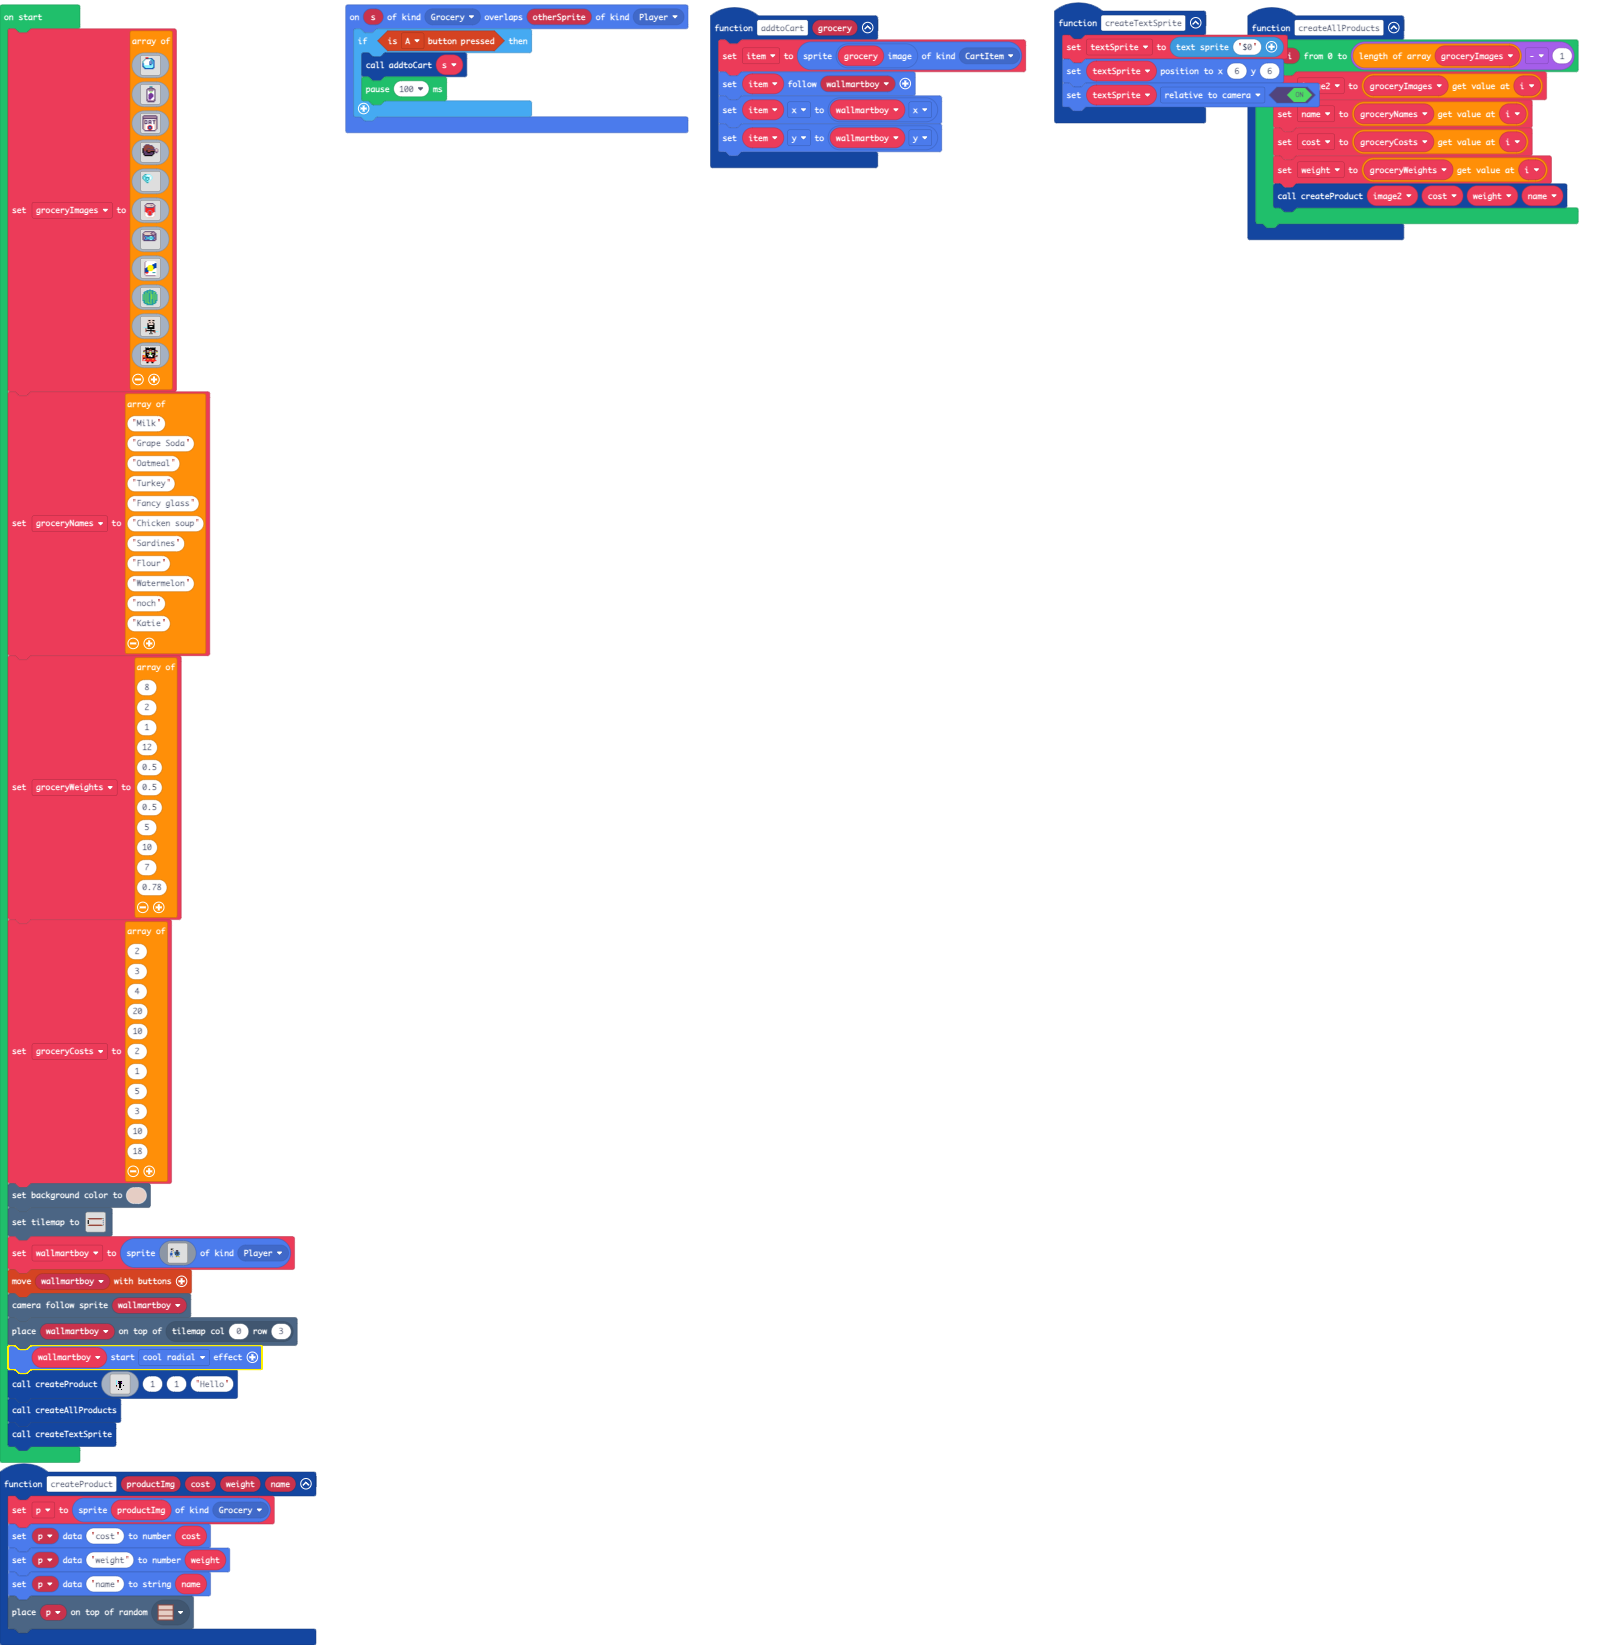
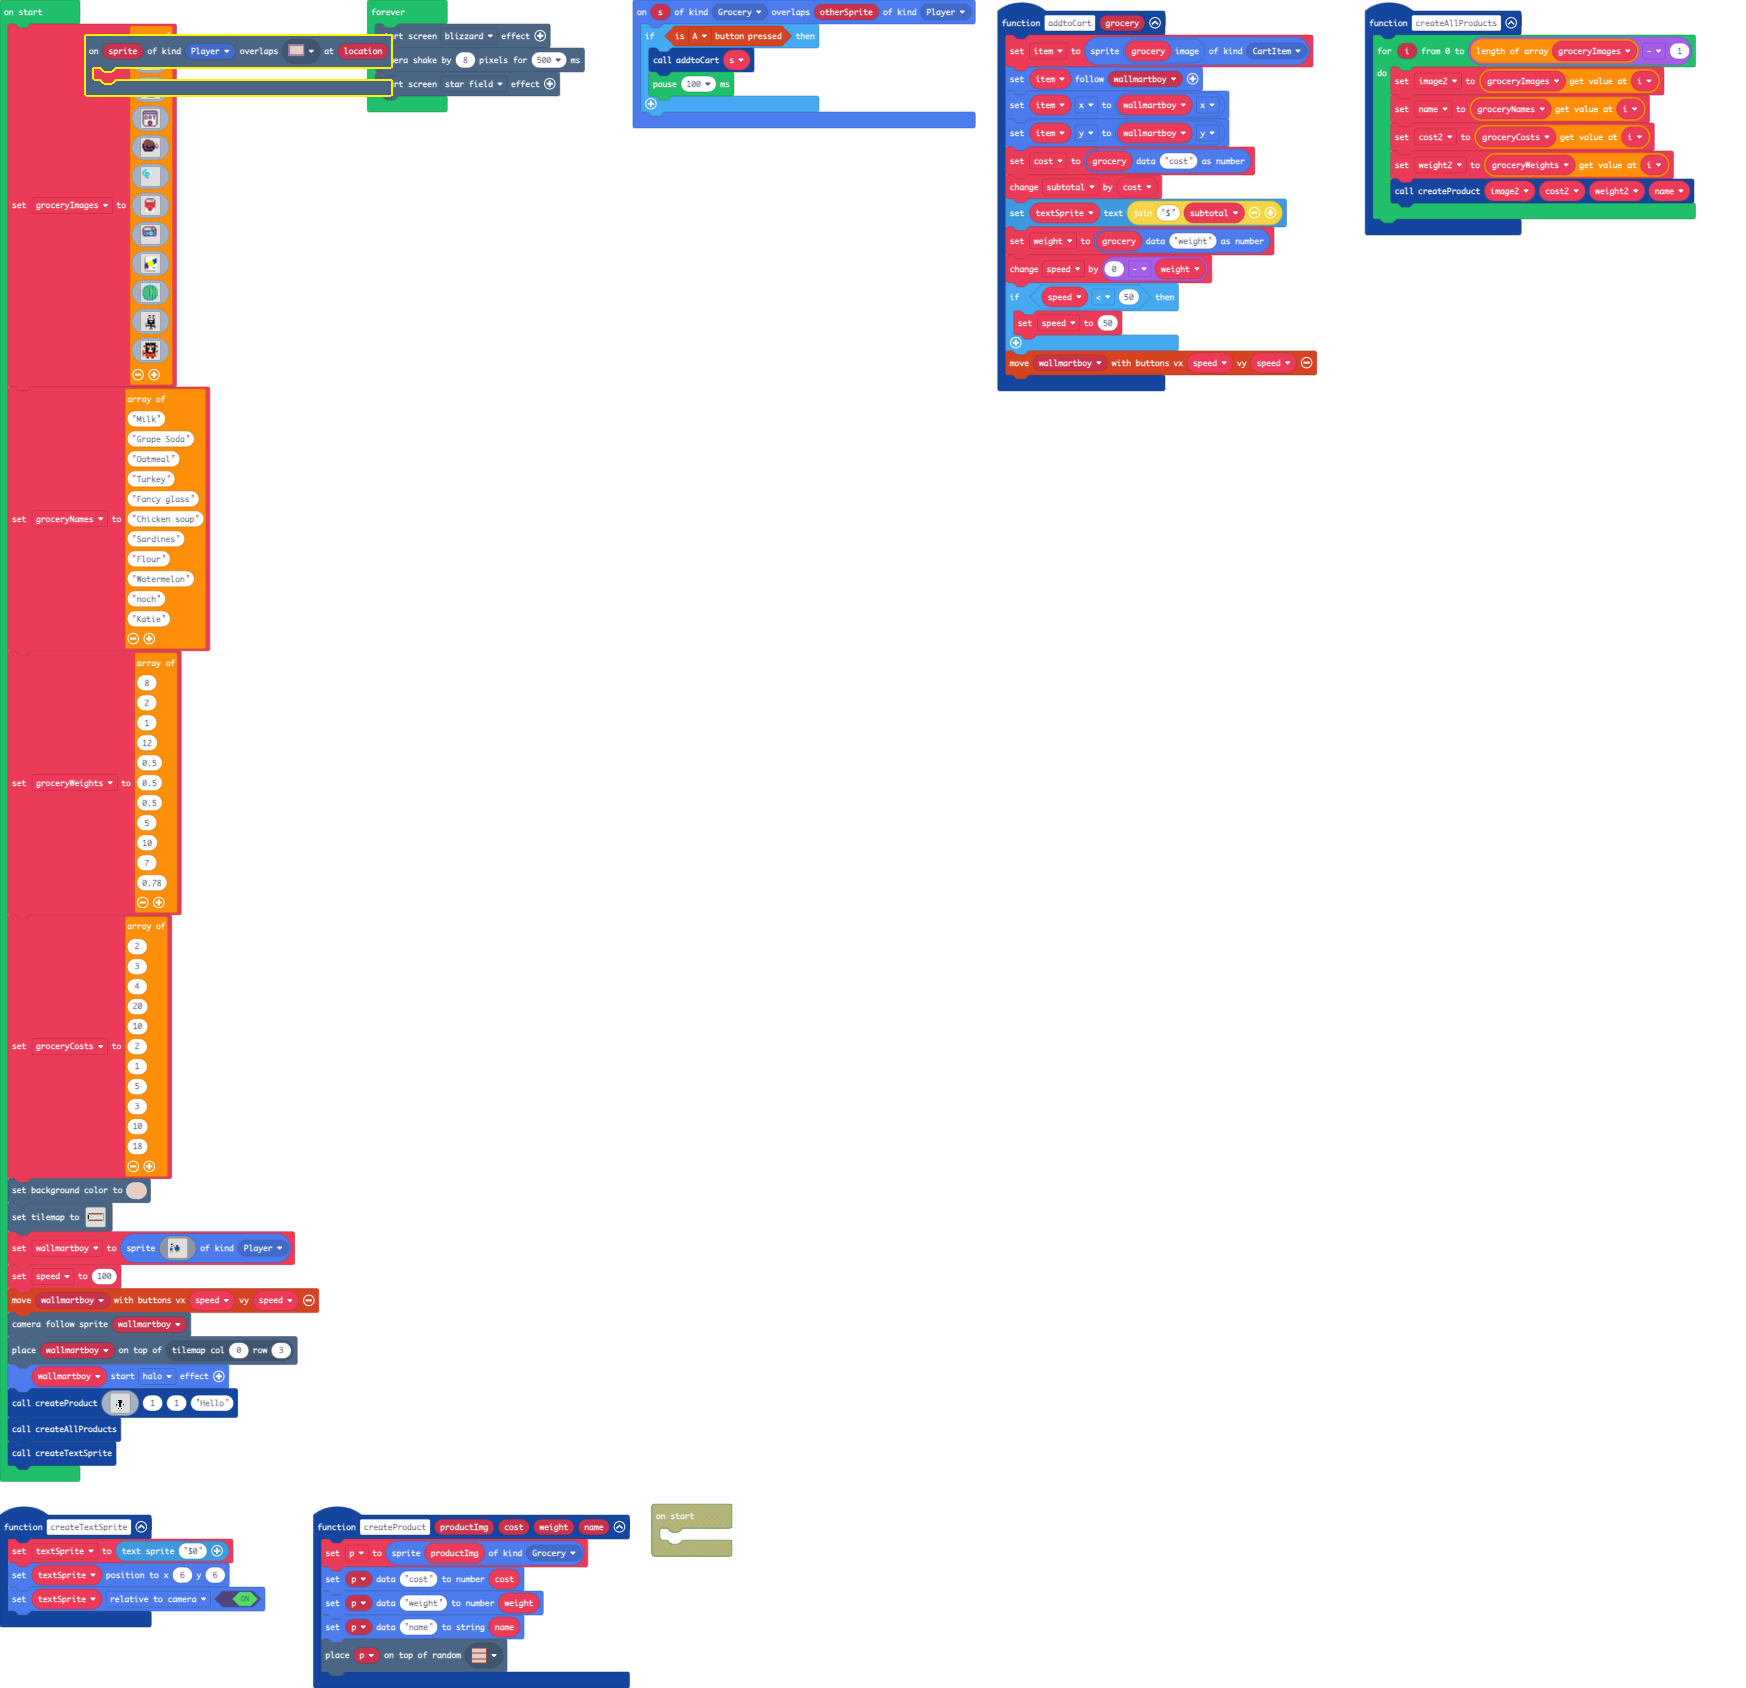
Update main.blocks, main.ts

Changed region(s): [[0.0, 0.0, 0.9883, 1.0]]

diff --git a/main.ts b/main.ts
@@ -2,56 +2,73 @@ namespace SpriteKind {
     export const Grocery = SpriteKind.create()
     export const CartItem = SpriteKind.create()
 }
-function addtoCart(grocery: Sprite) {
+function addtoCart (grocery: Sprite) {
     item = sprites.create(grocery.image, SpriteKind.CartItem)
     item.follow(wallmartboy)
     item.x = wallmartboy.x
     item.y = wallmartboy.y
-    let cost = sprites.readDataNumber(grocery, "cost")
+    cost = sprites.readDataNumber(grocery, "cost")
     subtotal += cost
     textSprite.setText("$" + subtotal)
+    weight = sprites.readDataNumber(grocery, "weight")
+    speed += 0 - weight
+    if (speed < 50) {
+        speed = 50
+    }
+    controller.moveSprite(wallmartboy, speed, speed)
 }
-function createTextSprite() {
+function createTextSprite () {
     textSprite = textsprite.create("$0")
     textSprite.setPosition(6, 6)
     textSprite.setFlag(SpriteFlag.RelativeToCamera, true)
 }
+scene.onOverlapTile(SpriteKind.Player, assets.tile`tile10`, function (sprite, location) {
+    let display = " it's  time to pay I hope you can pay Rent and the sale is more expensive then last year I hope your rich "
+    display += "Subtotal: $" +subtotal
+    game.showLongText(display, DialogLayout.Center)
+    info.setScore(subtotal)
+    game.over(true)
+})
 sprites.onOverlap(SpriteKind.Grocery, SpriteKind.Player, function (s, otherSprite) {
     if (controller.A.isPressed()) {
         addtoCart(s)
         pause(100)
     }
 })
-function createProduct(productImg: Image, cost: number, weight: number, name: string) {
+function createProduct (productImg: Image, cost: number, weight: number, name: string) {
     p = sprites.create(productImg, SpriteKind.Grocery)
     sprites.setDataNumber(p, "cost", cost)
     sprites.setDataNumber(p, "weight", weight)
     sprites.setDataString(p, "name", name)
     tiles.placeOnRandomTile(p, assets.tile`tile1`)
 }
-function createAllProducts() {
+function createAllProducts () {
     for (let i = 0; i <= groceryImages.length - 1; i++) {
         image2 = groceryImages[i]
         name = groceryNames[i]
-        cost = groceryCosts[i]
-        weight = groceryWeights[i]
-        createProduct(image2, cost, weight, name)
+        cost2 = groceryCosts[i]
+        weight2 = groceryWeights[i]
+        createProduct(image2, cost2, weight2, name)
     }
 }
-let weight = 0
-let cost = 0
+let weight2 = 0
+let cost2 = 0
 let name = ""
 let image2: Image = null
 let p: Sprite = null
+let weight = 0
 let textSprite: TextSprite = null
+let subtotal = 0
+let cost = 0
 let item: Sprite = null
+let speed = 0
 let wallmartboy: Sprite = null
 let groceryCosts: number[] = []
 let groceryWeights: number[] = []
 let groceryNames: string[] = []
 let groceryImages: Image[] = []
 groceryImages = [
-    img`
+img`
     . . . 2 2 2 . . . . . . . . . . 
     . . . c c c 6 6 8 8 . . . . . . 
     . . 6 1 1 1 1 1 9 6 8 . . . . . 
@@ -69,7 +86,7 @@ groceryImages = [
     . . . . . . . . . . . . . . . . 
     . . . . . . . . . . . . . . . . 
     `,
-    img`
+img`
     . . . . . . . 6 6 6 . . . . . . 
     . . . . . . . c b c . . . . . . 
     . . . . . c c c b c c c . . . . 
@@ -87,7 +104,7 @@ groceryImages = [
     . . . . c b b b b b b b c . . . 
     . . . . . c c c c c c c . . . . 
     `,
-    img`
+img`
     . c c c c c c c c c c c c c . . 
     c b b b b b b b b b b b b b c . 
     c b b b b b b b b b b b b b c . 
@@ -105,7 +122,7 @@ groceryImages = [
     . c d 1 1 1 2 2 2 1 1 1 d c . . 
     . . c c c c c c c c c c c . . . 
     `,
-    img`
+img`
     . . . c c c c . . . . . . . . . 
     . . c e e e e c c c . . . . . . 
     . c e e e e e e e e c . . . . . 
@@ -123,7 +140,7 @@ groceryImages = [
     . . . . . . . . . . . . . . . . 
     . . . . . . . . . . . . . . . . 
     `,
-    img`
+img`
     . . . . . . . . . . . . . . . . 
     . . 6 6 9 9 9 9 . . . . . . . . 
     . 6 9 9 1 1 1 1 9 . . . . . . . 
@@ -141,7 +158,7 @@ groceryImages = [
     . . . . . . . . . . . . . . . . 
     . . . . . . . . . . . . . . . . 
     `,
-    img`
+img`
     . . . . . . . . . . . . . . . . 
     . . . . c c c c c c c . . . . . 
     . . . c d d d d d d d c . . . . 
@@ -159,7 +176,7 @@ groceryImages = [
     . . . d 1 1 1 1 1 1 1 d . . . . 
     . . . . d d d d d d d . . . . . 
     `,
-    img`
+img`
     . . c c c c c c c c c c . . . . 
     . c d d d d d d d c b b c . . . 
     c d d d d d d d c b d b b c . . 
@@ -177,7 +194,7 @@ groceryImages = [
     . . . . . . . . . . . . . . . . 
     . . . . . . . . . . . . . . . . 
     `,
-    img`
+img`
     . . . . . . . . . . . . . . . . 
     . . . b 1 1 1 1 1 1 1 1 1 . . . 
     . . b 1 1 1 1 1 1 1 1 1 1 1 . . 
@@ -195,7 +212,7 @@ groceryImages = [
     . . b 1 1 1 1 1 1 1 1 1 1 1 . . 
     . . . b b b b b b b b b b . . . 
     `,
-    img`
+img`
     . . . . . . . 6 . . . . . . . . 
     . . . . 6 6 6 6 6 6 6 . . . . . 
     . . 6 6 6 6 7 6 7 6 6 6 6 . . . 
@@ -213,7 +230,7 @@ groceryImages = [
     . . 6 6 6 6 7 6 7 6 6 6 6 . . . 
     . . . . 6 6 6 6 6 6 6 . . . . . 
     `,
-    img`
+img`
     . . . . . . . . . . . . . . . . 
     . . . . . d d d d d d d . . . . 
     . . . . . d f f d d f f . . . . 
@@ -231,7 +248,7 @@ groceryImages = [
     . . . . . . . . f . . . e . . . 
     . . . . . . . f . f . . . . . . 
     `,
-    img`
+img`
     . . . f . f . . f . f . f . . . 
     . . . f f f f f f f f f f . . . 
     . . . f f f f e e f f f f . . . 
@@ -251,43 +268,43 @@ groceryImages = [
     `
 ]
 groceryNames = [
-    "Milk",
-    "Grape Soda",
-    "Oatmeal",
-    "Turkey",
-    "Fancy glass",
-    "Chicken soup",
-    "Sardines",
-    "Flour",
-    "Watermelon",
-    "noch",
-    "Katie"
+"Milk",
+"Grape Soda",
+"Oatmeal",
+"Turkey",
+"Fancy glass",
+"Chicken soup",
+"Sardines",
+"Flour",
+"Watermelon",
+"noch",
+"Katie"
 ]
 groceryWeights = [
-    8,
-    2,
-    1,
-    12,
-    0.5,
-    0.5,
-    0.5,
-    5,
-    10,
-    7,
-    0.78
+8,
+2,
+1,
+12,
+0.5,
+0.5,
+0.5,
+5,
+10,
+7,
+0.78
 ]
 groceryCosts = [
-    2,
-    3,
-    4,
-    20,
-    10,
-    2,
-    1,
-    5,
-    3,
-    10,
-    18
+2,
+3,
+4,
+20,
+10,
+2,
+1,
+5,
+3,
+10,
+18
 ]
 scene.setBackgroundColor(13)
 tiles.setTilemap(tilemap`level`)
@@ -310,10 +327,11 @@ wallmartboy = sprites.create(img`
     .d..d......55f5f55............
     .8..88......f....f............
     `, SpriteKind.Player)
-controller.moveSprite(wallmartboy)
+speed = 100
+controller.moveSprite(wallmartboy, speed, speed)
 scene.cameraFollowSprite(wallmartboy)
 tiles.placeOnTile(wallmartboy, tiles.getTileLocation(0, 3))
-wallmartboy.startEffect(effects.coolRadial)
+wallmartboy.startEffect(effects.halo)
 createProduct(img`
     . . . . . . . . . . . . . . . . 
     . . . . . . . . . . . . . . . . 
@@ -334,4 +352,8 @@ createProduct(img`
     `, 1, 1, "Hello")
 createAllProducts()
 createTextSprite()
-let subtotal = 0
+forever(function () {
+    effects.blizzard.startScreenEffect()
+    scene.cameraShake(8, 500)
+    effects.starField.startScreenEffect()
+})
